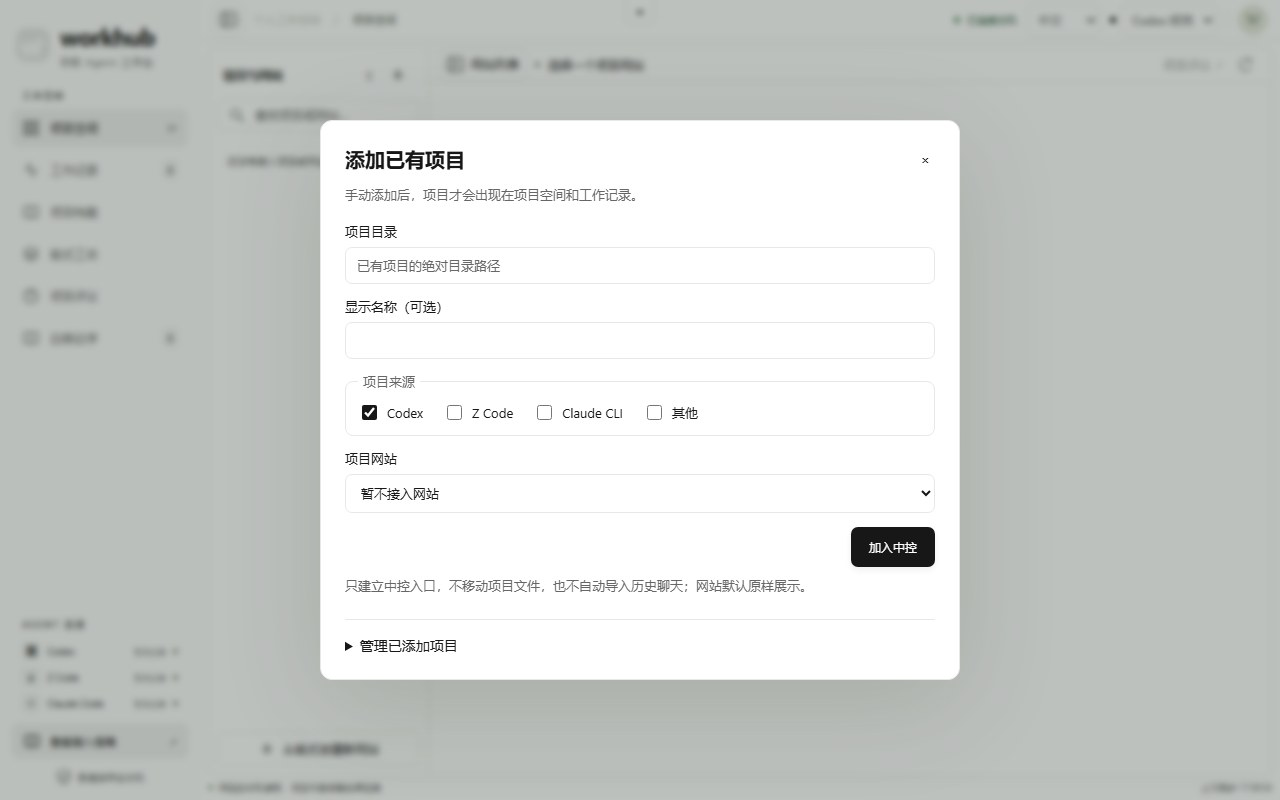
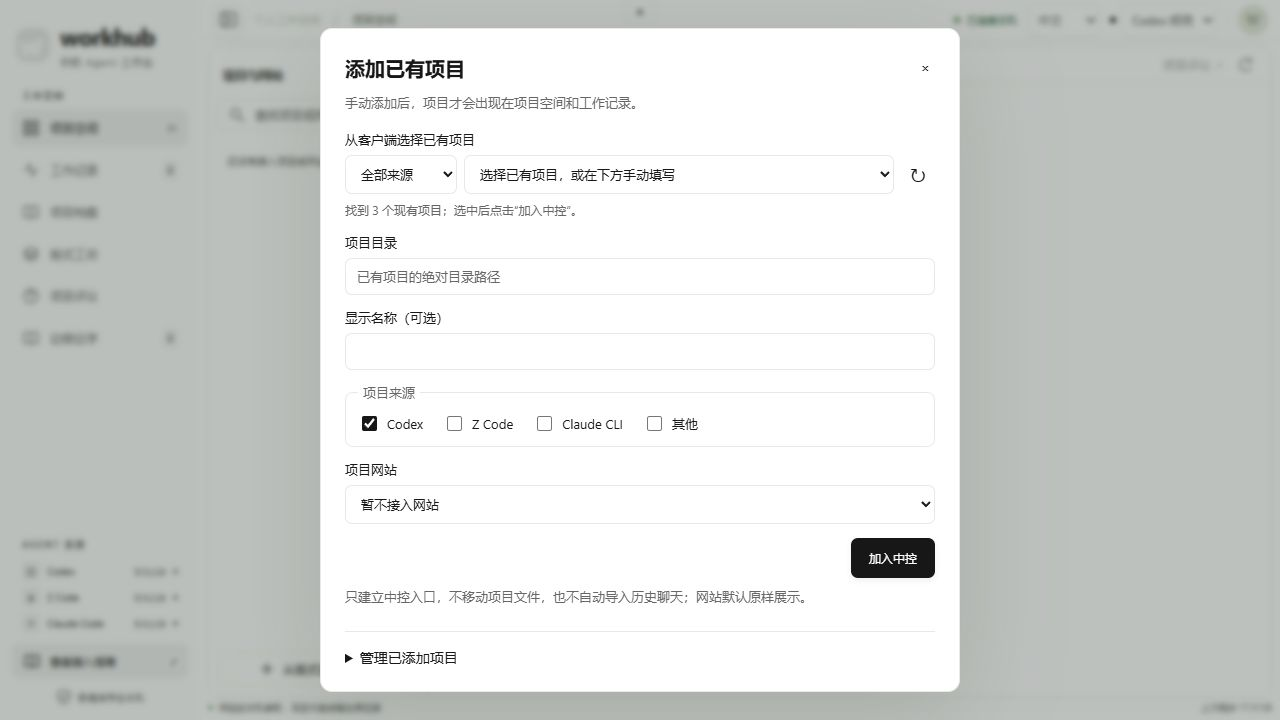
Offer existing Codex Z Code and Claude projects in a dropdown

diff --git a/static/app.js b/static/app.js
@@ -66,7 +66,7 @@ function renderActivity(projects){const {agent,status,query}=filters();const pro
 function detailField(label,value,mono=false){const row=element('div','detail-field');row.append(element('span','detail-label',label));if(value instanceof Node){const holder=element('div','detail-value');holder.append(value);row.append(holder);}else row.append(element('span',`detail-value${mono?' mono':''}`,value));return row;}
 function openProject(id){selectedProject=String(id);renderProjectDetail();const dialog=$('#project-dialog');if(!dialog.open)dialog.showModal();}
 function renderProjectDetail(){if(!selectedProject)return;const project=state.projects.find(p=>String(p.id)===selectedProject);const detail=$('#project-detail');if(!project){detail.replaceChildren(element('p','detail-description',t('该项目当前不可用，请刷新后重试。')));return;}const projectIcon=element('div','project-icon detail-project-icon');projectIcon.append(icon('folder'));const title=element('h2','detail-title',project.name);title.id='detail-title';const fields=element('div','detail-fields');const chips=element('div','agent-chips');(project.agents||[]).forEach(agent=>chips.append(agentChip(agent)));if(!chips.childNodes.length)chips.append(document.createTextNode(t('等待首次记录')));fields.append(detailField(t('项目路径'),project.path||t('未记录'),true),detailField(t('协作 Agent'),chips),detailField(t('最近更新'),formattedDate(project.updated_at)+t('（北京时间）')),detailField(t('累计记录'),t('{count} 条',{count:project.event_count||0})));const heading=element('h3','detail-history-heading',t('工作时间线'));const events=state.events.filter(event=>String(event.project_id)===selectedProject);heading.append(element('span','',t('最近 {count} 条',{count:events.length})));const timeline=element('div','detail-timeline');events.forEach(event=>{const block=element('article',`detail-event ${event.status}`);const meta=element('div','detail-event-meta');meta.append(agentChip(event.agent),statusPill(event.status),element('time','',formattedDate(event.created_at)));block.append(meta,element('div','detail-event-summary',event.summary||t('工作更新')));if(event.task)block.append(element('div','detail-task',t('任务 · {task}',{task:event.task})));if(event.details)block.append(element('div','detail-event-description',event.details));timeline.append(block);});if(!events.length)timeline.append(element('p','detail-description',t('项目已接入，尚未提交工作记录。')));const nodes=[projectIcon,title,statusPill(project.status),element('p','detail-description',project.description||project.last_summary||t('Agent 的进展将汇总为可追溯的工作时间线。')),fields,heading,timeline];if((project.event_count||0)>events.length)nodes.push(element('p','detail-limit',t('此处展示工作台最近同步的记录。完整历史保存在本机，可运行 ~/.local/bin/agent-workhub events --project /项目路径 --limit 1000 查看。')));const reviewButton=element('button','button button-outline detail-review-button',t('查看项目评议 ↗'));reviewButton.addEventListener('click',()=>{const id=project.id;$('#project-dialog').close();window.WorkhubReviews?.openProject(id);});nodes.splice(6,0,reviewButton);detail.replaceChildren(...nodes);}
-function renderConnections(){const holder=$('#agent-connections');const entries=integrations?.integrations;if(Array.isArray(entries)&&entries.length){holder.replaceChildren(...entries.map(entry=>{const name=entry.agent||entry.name||'Agent';const info=agentInfo(name);const row=element('div','agent-connection');row.append(element('span','agent-symbol',info.symbol),element('span','',entry.name||info.name));const ready=Boolean(entry.ready);const description=element('span','connection-description',entry.is_demo?t('演示'):ready?t('已接入'):t('待接入'));row.append(description,element('span',`mini-dot ${ready?'green':'gray'}`));row.title=ready?t('已检查到全局规则入口及 skill'):t('尚未检查到完整接入配置');return row;}));return;}const active=new Set(state.agents||[]);holder.replaceChildren(...['codex','zcode','claude'].map(agent=>{const info=agentInfo(agent),row=element('div','agent-connection');row.append(element('span','agent-symbol',info.symbol),element('span','',info.name),element('span','connection-description',active.has(agent)?t('有工作记录'):t('暂无记录')),element('span',`mini-dot ${active.has(agent)?'green':'gray'}`));row.title=t('此状态基于工作记录；全局入口是否安装请查看接入指南。');return row;}));}
+function renderConnections(){const holder=$('#agent-connections');const entries=integrations?.integrations;if(Array.isArray(entries)&&entries.length){holder.replaceChildren(...entries.map(entry=>{const name=entry.agent||entry.name||'Agent';const info=agentInfo(name);const row=element('div','agent-connection');row.append(element('span','agent-symbol',info.symbol),element('span','',entry.name||info.name));const ready=Boolean(entry.ready);const description=element('span','connection-description',entry.is_demo?t('演示'):ready?t('已接入'):t('待接入'));row.append(description,element('span',`mini-dot ${ready?'green':'gray'}`));row.title=ready?t('已检查到全局规则入口及 skill'):t('尚未检查到完整接入配置');return row;}));return;}const active=new Set(state.projects.flatMap(project=>project.recorded_agents??project.agents??[]));holder.replaceChildren(...['codex','zcode','claude'].map(agent=>{const info=agentInfo(agent),row=element('div','agent-connection');row.append(element('span','agent-symbol',info.symbol),element('span','',info.name),element('span','connection-description',active.has(agent)?t('有工作记录'):t('暂无记录')),element('span',`mini-dot ${active.has(agent)?'green':'gray'}`));row.title=t('此状态基于工作记录；全局入口是否安装请查看接入指南。');return row;}));}
 function setConnection(online){const status=$('#connection-status');status.className=`connection-status${online?'':' offline'}`;status.querySelector('span').textContent=online?t('已连接本机'):t('连接已断开');$('#error-banner').hidden=online;if(!online)$('#error-message').textContent=loaded?t('暂时无法连接本机服务，当前保留上次同步的数据。'):t('本机服务暂不可用。请先运行 python3 workhub.py serve，再重新连接。');}
 async function sync(){if(fetching)return;fetching=true;$('#refresh-button').disabled=true;try{const response=await fetch('/api/state',{cache:'no-store',signal:AbortSignal.timeout(4500)});if(!response.ok)throw new Error(`HTTP ${response.status}`);const incoming=await response.json();if(!Array.isArray(incoming.projects)||!Array.isArray(incoming.events))throw new Error('Invalid state');state={...incoming,agents:Array.isArray(incoming.agents)?incoming.agents:[]};loaded=true;if(incoming.is_demo){document.body.dataset.demo='true';$('#demo-banner').hidden=false;}lastSync=new Date();setConnection(true);renderStats();renderAgentFilter();renderProjectsAndActivity();renderConnections();renderProjectDetail();renderSites();window.dispatchEvent(new CustomEvent('workhub:state',{detail:state}));$('#last-sync').textContent=t('上次同步 {time}',{time:timeFormatter.format(lastSync)});}catch{setConnection(false);if(!loaded){$('#project-result-count').textContent='0';$('#project-grid').replaceChildren(element('div','empty-state',t('工作记录暂时无法读取。连接恢复后会自动更新。')));$('#activity-list').replaceChildren(element('div','activity-empty',t('等待重新连接本机服务…')));}}finally{fetching=false;$('#refresh-button').disabled=false;}}
 async function syncIntegrations(){try{const response=await fetch('/api/integrations',{cache:'no-store',signal:AbortSignal.timeout(3000)});if(response.ok){integrations=await response.json();renderConnections();}}catch{if(loaded)renderConnections();}}

diff --git a/static/workspace.js b/static/workspace.js
@@ -1,4 +1,4 @@
-/* User-controlled admission only. No client-history discovery or CLI execution. */
+/* Read-only project metadata candidates; only user submission admits a project. */
 (() => {
   'use strict';
   const $ = id => document.getElementById(id);
@@ -6,6 +6,8 @@
   const dialog = $('workspace-dialog'), form = $('workspace-form');
   const message = $('workspace-message');
   let busy = false;
+  let catalog = [], catalogLoaded = false, catalogLoading = false, catalogFailed = false;
+  const agentName = agent => ({codex:'Codex',zcode:'Z Code',claude:'Claude CLI',other:t('其他')})[agent] || agent;
   function text(tag, value, cls) {
     const node = document.createElement(tag);
     node.textContent = value;
@@ -21,7 +23,50 @@
     feedback('');
     renderProjects();
     if (!dialog.open) dialog.showModal();
+    loadCatalog();
   }
+  function renderCatalog() {
+    const select = $('workspace-existing'), chosen = select.value;
+    const source = $('workspace-catalog-source').value;
+    const projects = catalog.filter(project => !source || project.agents.includes(source));
+    const placeholder = text('option', t(catalogLoading?'正在读取已有项目…':'选择已有项目，或在下方手动填写'));
+    placeholder.value = '';
+    select.replaceChildren(placeholder, ...projects.map(project => {
+      const option = text('option', `${project.agents.map(agentName).join(' · ')} | ${project.name} — ${project.path}`);
+      option.value = project.id;
+      return option;
+    }));
+    if (projects.some(project => project.id === chosen)) select.value = chosen;
+    select.disabled = catalogLoading;
+    $('workspace-catalog-refresh').disabled = catalogLoading;
+    $('workspace-catalog-hint').textContent = catalogLoading?t('正在读取客户端保存的项目目录…')
+      :catalogFailed?t('目录列表暂不可用，仍可手动填写。')
+      :projects.length?t('找到 {count} 个现有项目；选中后点击“加入中控”。',{count:projects.length})
+      :t('未找到可用目录，仍可手动填写。');
+  }
+  async function loadCatalog() {
+    if (catalogLoading) return;
+    catalogLoading = true; catalogFailed = false; renderCatalog();
+    try {
+      const response = await fetch('/api/workspace/catalog', {cache:'no-store', signal:AbortSignal.timeout(6000)});
+      if (!response.ok) throw new Error('catalog unavailable');
+      const data = await response.json();
+      if (!Array.isArray(data.projects)) throw new Error('invalid catalog');
+      catalog = data.projects.filter(project => typeof project.id==='string' && typeof project.path==='string' && typeof project.name==='string' && Array.isArray(project.agents));
+      catalogLoaded = true;
+    } catch { catalogFailed = true; }
+    finally { catalogLoading = false; renderCatalog(); }
+  }
+  $('workspace-existing').addEventListener('change', () => {
+    const project = catalog.find(project => project.id === $('workspace-existing').value);
+    if (!project) return;
+    $('workspace-path').value = project.path;
+    $('workspace-name').value = project.name;
+    form.querySelectorAll('input[name="workspace-agent"]').forEach(input => { input.checked = project.agents.includes(input.value); });
+    feedback('');
+  });
+  $('workspace-catalog-source').addEventListener('change', renderCatalog);
+  $('workspace-catalog-refresh').addEventListener('click', loadCatalog);
   async function request(action, payload) {
     const response = await fetch('/api/workspace/' + action, {
       method: 'POST', headers: {'Content-Type':'application/json', 'X-Workhub-Request':'1'},
@@ -45,7 +90,7 @@
     box.replaceChildren(...projects.map(project => {
       const row = text('div', '', 'workspace-project');
       const info = text('div', '', 'workspace-project-info');
-      info.append(text('strong', project.name), text('span', project.path), text('small', (project.source_agents || []).map(agent => ({codex:'Codex',zcode:'Z Code',claude:'Claude CLI',other:t('其他')})[agent] || agent).join(' · ')));
+      info.append(text('strong', project.name), text('span', project.path), text('small', (project.source_agents || []).map(agentName).join(' · ')));
       const remove = text('button', t('从中控移除'), 'button button-outline button-compact');
       remove.type = 'button';
       remove.disabled = busy;
@@ -82,7 +127,7 @@
     try {
       await request('add', payload);
       await refresh();
-      form.reset(); updateSiteFields();
+      form.reset(); updateSiteFields(); renderCatalog();
       feedback(t('已加入中控；只有手动添加的项目会显示。'));
     } catch (error) { feedback(error.message || t('项目操作未成功。'), true); }
     finally { busy = false; $('workspace-submit').disabled = false; renderProjects(); }
@@ -90,7 +135,7 @@
   document.querySelectorAll('[data-workspace-add]').forEach(button => button.addEventListener('click', show));
   $('workspace-site-kind').addEventListener('change', updateSiteFields);
   window.addEventListener('workhub:state', () => { if (dialog.open) renderProjects(); });
-  I.onChange(() => { renderProjects(); updateSiteFields(); if (!message.hidden) message.textContent = I.translateKnown(message.textContent); });
+  I.onChange(() => { renderProjects(); updateSiteFields(); if (catalogLoaded || dialog.open) renderCatalog(); if (!message.hidden) message.textContent = I.translateKnown(message.textContent); });
   window.WorkhubWorkspace = {open:show};
   updateSiteFields();
 })();

diff --git a/static/index.html b/static/index.html
@@ -147,6 +147,7 @@
     <div class="workspace-heading"><h2 id="workspace-title" data-i18n="添加已有项目">添加已有项目</h2><button type="button" class="icon-button" data-close="workspace-dialog" aria-label="关闭" data-i18n-aria-label="关闭">×</button></div>
     <p class="workspace-muted" data-i18n="手动添加后，项目才会出现在项目空间和工作记录。">手动添加后，项目才会出现在项目空间和工作记录。</p>
     <form id="workspace-form">
+      <div class="workspace-catalog"><label for="workspace-existing" data-i18n="从客户端选择已有项目">从客户端选择已有项目</label><div class="workspace-catalog-row"><select id="workspace-catalog-source" aria-label="客户端来源" data-i18n-aria-label="客户端来源"><option value="" data-i18n="全部来源">全部来源</option><option value="codex">Codex</option><option value="zcode">Z Code</option><option value="claude">Claude CLI</option></select><select id="workspace-existing" aria-label="已有项目" data-i18n-aria-label="已有项目"><option value="" data-i18n="选择已有项目，或在下方手动填写">选择已有项目，或在下方手动填写</option></select><button id="workspace-catalog-refresh" type="button" class="icon-button" title="刷新项目列表" aria-label="刷新项目列表" data-i18n-title="刷新项目列表" data-i18n-aria-label="刷新项目列表">↻</button></div><p id="workspace-catalog-hint" class="workspace-muted" role="status"></p></div>
       <label><span data-i18n="项目目录">项目目录</span><input id="workspace-path" required maxlength="4096" autocomplete="off" placeholder="已有项目的绝对目录路径" data-i18n-placeholder="已有项目的绝对目录路径"></label>
       <label><span data-i18n="显示名称（可选）">显示名称（可选）</span><input id="workspace-name" maxlength="300" autocomplete="off"></label>
       <fieldset class="workspace-agents"><legend data-i18n="项目来源">项目来源</legend><label><input type="checkbox" name="workspace-agent" value="codex" checked>Codex</label><label><input type="checkbox" name="workspace-agent" value="zcode">Z Code</label><label><input type="checkbox" name="workspace-agent" value="claude">Claude CLI</label><label><input type="checkbox" name="workspace-agent" value="other"><span data-i18n="其他">其他</span></label></fieldset>

diff --git a/static/workspace.css b/static/workspace.css
@@ -6,3 +6,5 @@
 .workspace-management{margin-top:22px;border-top:1px solid var(--wh-border);padding-top:16px}.workspace-management>summary{font-size:14px;cursor:pointer}.workspace-project{display:flex;align-items:center;justify-content:space-between;gap:16px;padding:14px 0;border-bottom:1px solid var(--wh-border)}.workspace-project-info{display:grid;gap:5px;min-width:0}.workspace-project-info strong{font-size:14px}.workspace-project-info :is(span,small){font-size:12px;color:var(--wh-muted);overflow-wrap:anywhere}.workspace-project>.button{flex-shrink:0}
 .workspace-dialog :is(button,input,select,summary):focus-visible{outline:2px solid var(--wh-focus);outline-offset:2px}.workspace-dialog [hidden]{display:none!important}
 @media(max-width:480px){.workspace-dialog{padding:18px}.workspace-project{align-items:flex-start;flex-wrap:wrap}.workspace-project>.button{margin-left:auto}}
+.workspace-catalog>label{display:block;margin-bottom:7px;font-size:13px}.workspace-catalog-row{display:grid;grid-template-columns:112px minmax(0,1fr) 34px;gap:7px;align-items:center}.workspace-catalog-row select{min-width:0;text-overflow:ellipsis}.workspace-catalog-row button{width:34px;min-height:34px;font-size:20px}.workspace-catalog #workspace-catalog-hint{margin:7px 0 0;font-size:12px;line-height:1.6}
+@media(max-width:480px){.workspace-catalog-row{grid-template-columns:minmax(0,1fr) 34px}.workspace-catalog-row #workspace-catalog-source{grid-column:1/-1}}

diff --git a/static/i18n.js b/static/i18n.js
@@ -1232,6 +1232,20 @@
   "请选择 Codex、Z Code、Claude CLI 或其他来源": "Select Codex, Z Code, Claude CLI or another source",
   "请填写有效的网站地址或目录": "Enter a valid website URL or directory"
 });
+ Object.assign(dictionaries.en, {
+  "从客户端选择已有项目": "Choose an existing client project",
+  "关闭": "Close",
+  "客户端来源": "Client source",
+  "全部来源": "All sources",
+  "已有项目": "Existing projects",
+  "刷新项目列表": "Refresh project list",
+  "选择已有项目，或在下方手动填写": "Choose a project, or enter a directory below",
+  "正在读取已有项目…": "Loading existing projects…",
+  "正在读取客户端保存的项目目录…": "Reading project directories saved by your clients…",
+  "目录列表暂不可用，仍可手动填写。": "The project list is unavailable. You can still enter a directory.",
+  "找到 {count} 个现有项目；选中后点击“加入中控”。": "Found {count} existing projects. Select one, then choose Add to workspace.",
+  "未找到可用目录，仍可手动填写。": "No available directories were found. You can still enter one."
+});
  Object.values(dictionaries).forEach(Object.freeze);Object.freeze(dictionaries);
  const normalize=value=>value==='en'||value==='en-US'||value==='en-GB'?'en':'zh-CN';
  let locale='zh-CN';try{locale=normalize(localStorage.getItem('workhub-language'));}catch{}

diff --git a/project_catalog.py b/project_catalog.py
@@ -1,0 +1,169 @@
+"""Read known client project directories, without importing conversations or secrets.
+
+Metadata sources and compatibility limits are documented in docs/project-catalog.md.
+These entries are candidates only; listing or selecting never admits a project.
+"""
+from __future__ import annotations
+
+import hashlib
+import json
+import os
+from pathlib import Path
+import re
+import sqlite3
+
+
+MAX_JSON_BYTES = 16 * 1024 * 1024
+MAX_PROJECTS = 2000
+
+
+class ProjectCatalog:
+    def __init__(self, home=None):
+        self.home = Path(home).expanduser() if home is not None else Path.home()
+        # Tests pass a synthetic home and never inherit real client locations.
+        self.codex = Path(os.environ.get("CODEX_HOME", self.home / ".codex")) if home is None else self.home / ".codex"
+        self.zcode = Path(os.environ.get("ZCODE_DATA_BASE_DIR", self.home)) / ".zcode" if home is None else self.home / ".zcode"
+        self.claude = Path(os.environ.get("CLAUDE_CONFIG_DIR", self.home / ".claude")) if home is None else self.home / ".claude"
+        self.claude_settings = self.claude / ".claude.json" if home is None and os.environ.get("CLAUDE_CONFIG_DIR") else self.home / ".claude.json"
+
+    @staticmethod
+    def _json(path):
+        if not path.is_file():
+            return None
+        with path.open("rb") as stream:
+            raw = stream.read(MAX_JSON_BYTES + 1)
+        if len(raw) > MAX_JSON_BYTES:
+            raise ValueError("project metadata too large")
+        data = json.loads(raw)
+        return data if isinstance(data, dict) else None
+
+    @staticmethod
+    def _database(path):
+        # mode=ro does not create or migrate a client database; WAL is read normally.
+        db = sqlite3.connect(path.resolve().as_uri() + "?mode=ro", uri=True, timeout=0.5)
+        db.row_factory = sqlite3.Row
+        db.execute("PRAGMA query_only=ON")
+        return db
+
+    @staticmethod
+    def _columns(db, table):
+        # Table names are constants from the readers below, never request input.
+        return {row["name"] for row in db.execute("PRAGMA table_info(" + table + ")")}
+
+    def _codex(self):
+        databases = [p for p in self.codex.glob("state_*.sqlite") if re.fullmatch(r"state_\d+\.sqlite", p.name)]
+        latest = max(databases, key=lambda p: int(p.stem.split("_")[1])) if databases else None
+        if latest:
+            try:
+                db = self._database(latest)
+                try:
+                    if {"id", "name"} <= self._columns(db, "projects") and {"project_id", "path"} <= self._columns(db, "project_roots"):
+                        rows = [(row["path"], row["name"]) for row in db.execute(
+                            "SELECT p.name,r.path FROM projects p JOIN project_roots r ON r.project_id=p.id LIMIT ?", (MAX_PROJECTS,))]
+                        if rows:
+                            return rows
+                finally:
+                    db.close()
+            except (OSError, sqlite3.Error):
+                pass  # Desktop JSON is a compatible fallback during DB updates.
+        data = self._json(self.codex / ".codex-global-state.json") or {}
+        entries = []
+        projects = data.get("local-projects", {})
+        if isinstance(projects, dict):
+            for project in list(projects.values())[:MAX_PROJECTS]:
+                if not isinstance(project, dict):
+                    continue
+                roots = project.get("rootPaths", [])
+                if isinstance(roots, list):
+                    for path in roots[:100]:
+                        entries.append((path, project.get("name")))
+        for key in ("electron-saved-workspace-roots", "saved-workspace-roots"):
+            roots = data.get(key, [])
+            if isinstance(roots, list):
+                entries.extend((path, None) for path in roots[:MAX_PROJECTS])
+        if entries:
+            return entries
+        # CLI-only installations may have no desktop registry. Read cwd only.
+        if latest is None:
+            return entries
+        db = self._database(latest)
+        try:
+            if "cwd" in self._columns(db, "threads"):
+                entries.extend((row[0], None) for row in db.execute("SELECT DISTINCT cwd FROM threads WHERE cwd IS NOT NULL LIMIT ?", (MAX_PROJECTS,)))
+        finally:
+            db.close()
+        return entries
+
+    def _zcode(self):
+        path = self.zcode / "v2" / "tasks-index.sqlite"
+        if not path.is_file():
+            return []
+        db = self._database(path)
+        try:
+            projects = self._columns(db, "projects")
+            roots = self._columns(db, "project_roots")
+            hosts = self._columns(db, "hosts")
+            if {"project_id", "root_path"} <= roots and {"project_id", "name", "host_id"} <= projects:
+                where = "COALESCE(p.deleted,0)=0" if "deleted" in projects else "1=1"
+                join = ""
+                if {"host_id", "kind"} <= hosts:
+                    join = " JOIN hosts h ON h.host_id=p.host_id"
+                    where += " AND h.kind='local'"
+                else:
+                    # Legacy indexes use the fixed local host id; do not import remotes.
+                    where += " AND p.host_id='local'"
+                query = "SELECT p.name,r.root_path FROM projects p JOIN project_roots r ON r.project_id=p.project_id" + join + " WHERE " + where + " LIMIT ?"
+                return [(row["root_path"], row["name"]) for row in db.execute(query, (MAX_PROJECTS,))]
+            return []
+        finally:
+            db.close()
+
+    def _claude(self):
+        data = self._json(self.claude_settings) or {}
+        projects = data.get("projects", {})
+        if not isinstance(projects, dict):
+            return []
+        # Keys are directories. Values include unrelated settings and are ignored.
+        return [(path, None) for path in list(projects)[:MAX_PROJECTS]]
+
+    @staticmethod
+    def _canonical(value):
+        if not isinstance(value, str) or not value.strip() or len(value) > 4096:
+            return None
+        value = value.strip()
+        # Do not probe network shares or remote URLs while building a local list.
+        if value.startswith(("\\\\", "//")) or re.match(r"^[a-zA-Z][a-zA-Z0-9+.-]*://", value):
+            return None
+        path = Path(value).expanduser()
+        if not path.is_absolute():
+            return None
+        try:
+            path = path.resolve(strict=True)
+            return str(path) if path.is_dir() else None
+        except (OSError, ValueError, RuntimeError):
+            return None
+
+    def list(self):
+        combined = {}
+        statuses = []
+        for agent, reader in (("codex", self._codex), ("zcode", self._zcode), ("claude", self._claude)):
+            count = 0
+            try:
+                entries = reader()
+                for value, label in entries[:MAX_PROJECTS]:
+                    path = self._canonical(value)
+                    if path is None:
+                        continue
+                    key = os.path.normcase(path)
+                    if key not in combined:
+                        name = label.strip() if isinstance(label, str) and label.strip() else Path(path).name or path
+                        name = " ".join(name.split())[:300]
+                        combined[key] = {"id": hashlib.sha256(key.encode("utf-8")).hexdigest()[:24], "path":path, "name":name, "agents":[]}
+                    if agent not in combined[key]["agents"]:
+                        combined[key]["agents"].append(agent)
+                        count += 1
+                statuses.append({"agent":agent, "count":count, "status":"ready" if count else "empty"})
+            except (OSError, ValueError, sqlite3.Error, RuntimeError):
+                # Do not return client file contents, SQL details or credential fields.
+                statuses.append({"agent":agent, "count":0, "status":"unavailable"})
+        return {"projects":sorted(combined.values(), key=lambda p:(p["name"].casefold(), p["path"].casefold())), "sources":statuses}

diff --git a/workhub.py b/workhub.py
@@ -29,6 +29,7 @@ from assessments import AssessmentManager, ReviewError
 from archives import ArchiveStore
 from learning import LearningStore
 from model_access import ModelAccess
+from project_catalog import ProjectCatalog
 
 
 ROOT = Path(__file__).resolve().parent
@@ -336,6 +337,7 @@ class Workspace:
             if member is None:
                 continue
             project["source_agents"] = json.loads(member["source_agents"])
+            project["recorded_agents"] = project["agents"][:]
             project["agents"] = sorted(set(project["agents"]) | set(project["source_agents"]))
             project["theme_mode"] = member["theme_mode"]
             project["added_at"] = member["added_at"]
@@ -683,6 +685,8 @@ def handler_for(store, manager=None, reviews=None, archives=None, learning=None)
                     self.json_response(200, {"ok": True, "service": "agent-workhub", "version": 1})
                 elif route == "/api/state":
                     self.json_response(200, workspace.state())
+                elif route == "/api/workspace/catalog":
+                    self.json_response(200, ProjectCatalog().list())
                 elif route == "/api/integrations":
                     self.json_response(200, integrations())
                 elif route == "/api/sites":

diff --git a/docs/project-catalog.md b/docs/project-catalog.md
@@ -1,0 +1,24 @@
+# Existing project directory sources / 已有项目目录来源
+
+The add-project dialog reads directory metadata on demand when it opens or the user refreshes. It does not scan client chat folders or import conversations. Selecting a candidate only fills the form; the user still clicks **Add to workspace**.
+
+添加窗口打开或点击刷新时，按需读取已有项目目录。可以筛选 Codex、Z Code、Claude CLI；同一规范化目录合并来源，失效目录不显示。选择只填表，必须手动点击“加入中控”。列表失败不影响手工填写。
+
+| Client | Metadata read | Fields used |
+| --- | --- | --- |
+| Codex | Latest `state_*.sqlite` project tables; compatible `.codex-global-state.json` project registry | `projects.name`, `project_roots.path`; JSON `local-projects` names/rootPaths or saved workspace roots |
+| Codex CLI fallback | `threads` in the latest state database, only when no project registry is available | Distinct `cwd` only; no titles, prompts or messages |
+| Z Code | `~/.zcode/v2/tasks-index.sqlite` | Join `projects`, `project_roots`, `hosts`; local hosts and non-deleted projects only; names and root paths |
+| Claude CLI | `~/.claude.json` | Keys of the `projects` dictionary only; settings values are ignored |
+
+SQLite connections use `mode=ro` and `query_only`; active WAL remains readable. The reader does not migrate or write client databases. JSON reads are size-bounded. Only existing absolute local directories are returned; URL and UNC candidates are skipped. Remote projects and roots without a local directory are not guessed.
+
+The normal client location is the current user's home. `CODEX_HOME`, `CLAUDE_CONFIG_DIR`, and Z Code's `ZCODE_DATA_BASE_DIR` are respected. These are server-side locations, never arbitrary file paths supplied through HTTP. The catalog endpoint has the same loopback Host/Origin restrictions as the rest of Workhub.
+
+Client metadata formats can change. One unavailable source does not disable the others, and manual directory input remains available. The public demo and development fixtures use synthetic metadata rather than a contributor's client files.
+
+## Primary references
+
+- [Codex project schema](https://github.com/openai/codex/blob/main/codex-rs/state/migrations/0049_projects.sql), [project runtime](https://github.com/openai/codex/blob/main/codex-rs/state/src/runtime/projects.rs), [legacy cwd schema](https://github.com/openai/codex/blob/main/codex-rs/state/migrations/0001_threads.sql).
+- [Z Code storage paths](https://github.com/zai-org/ZCode/blob/main/packages/services/src/paths.ts), [project schema](https://github.com/zai-org/ZCode/blob/main/packages/services/src/project-storage/schema.ts), [project reader](https://github.com/zai-org/ZCode/blob/main/packages/services/src/project-storage/project-repository.ts).
+- [Claude directory documentation](https://code.claude.com/docs/en/claude-directory), [project configuration](https://code.claude.com/docs/en/mcp).

diff --git a/README.en.md b/README.en.md
@@ -18,7 +18,7 @@ cd workhub
 python3 workhub.py serve --port 8787
 ```
 
-Open [http://127.0.0.1:8787](http://127.0.0.1:8787), choose **Add existing project**, enter its directory and select Codex, Z Code or Claude CLI. Only manually added projects and their records appear. CLI reports do not add directories to the workspace automatically. **Recording work, viewing sites and using templates do not require a model key.** Project reviews need a separately configured reviewer. On Windows, use `python` if `python3` is unavailable.
+Open [http://127.0.0.1:8787](http://127.0.0.1:8787), choose **Add existing project**, choose a directory from the Codex, Z Code or Claude CLI project dropdown, or enter one manually. Only manually added projects and their records appear. CLI reports do not add directories to the workspace automatically. **Recording work, viewing sites and using templates do not require a model key.** Project reviews need a separately configured reviewer. On Windows, use `python` if `python3` is unavailable.
 
 <details>
 <summary>Explore a populated interface with the isolated demo</summary>
@@ -72,6 +72,8 @@ Every interface screenshot uses **Codex Light**: white surfaces, neutral text an
 Only you check “I have a basic understanding,” and you can undo it. Updated content asks for another review while preserving earlier acknowledgements. Reading and acknowledging do not trigger model calls.
 
 ## Connect projects and agents
+
+The add-project dialog reads known local project directories from Codex, Z Code and Claude CLI. Filter by client, select a project to fill its directory and source tags, then click **Add to workspace**. Listing or selecting a candidate does not add it. See [project directory sources](docs/project-catalog.md) for read-only metadata boundaries.
 
 Manually add a project in the local UI, optionally connecting its existing local URL or static website directory. Adding does not move files, rewrite client project registries or import chat history. Removing only detaches the workspace entry; re-adding restores access to existing work records.
 

diff --git a/README.md b/README.md
@@ -18,7 +18,7 @@ cd workhub
 python3 workhub.py serve --port 8787
 ```
 
-打开 [http://127.0.0.1:8787](http://127.0.0.1:8787)，点击项目空间右上角 **添加已有项目**，填写现有目录并选择 Codex、Z Code 或 Claude CLI 来源。只有你手动添加的项目及其记录会显示；CLI 上报不会自动将目录加入中控。**记录工作、查看项目网站和使用模板不需要模型密钥**；项目评议需要单独配置评议器。Windows 可用 `python` 替换 `python3`。
+打开 [http://127.0.0.1:8787](http://127.0.0.1:8787)，点击项目空间右上角 **添加已有项目**，从下拉框选择 Codex、Z Code 或 Claude CLI 的已有目录，也可手动填写。只有你手动添加的项目及其记录会显示；CLI 上报不会自动将目录加入中控。**记录工作、查看项目网站和使用模板不需要模型密钥**；项目评议需要单独配置评议器。Windows 可用 `python` 替换 `python3`。
 
 <details>
 <summary>先体验有内容的界面：运行隔离演示</summary>
@@ -72,6 +72,8 @@ python3 examples/demo.py --port 8899
 学习卡只记录你亲自勾选的“初步理解”，支持取消；内容更新后提示复习，并保留旧版确认。查看和勾选不会自动调用模型。
 
 ## 接入项目与 Agent
+
+添加窗口会读取三个客户端已保存的本机项目目录，可按来源筛选；选中后自动填入路径、名称及来源，再点击 **加入中控**。读取列表或选择候选不会直接加入。[目录来源与只读边界](docs/project-catalog.md)。
 
 先在本地 UI 手动添加项目，可选接入已有本机网址或静态网站目录。添加不搬动文件、不改写客户端项目库，也不自动导入聊天历史。移除只取消中控入口，重新添加可继续查看原有工作记录。
 
